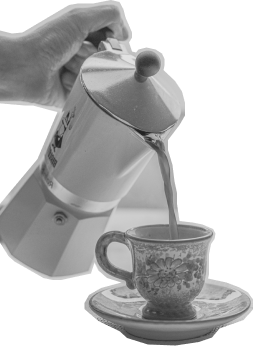
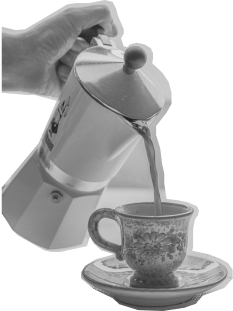
Update /preview/: color-adapt button, new moka, contact fields

diff --git a/preview/script.js b/preview/script.js
@@ -303,6 +303,21 @@
   var toTopBtn = document.querySelector('.rm-totop');
   var menuBtnShown = false, toTopShown = false, lastRevAct = -1, revMobile = false;
 
+  // Menu button adapts its colour to the section it's currently over.
+  // Each entry: {el, bg (button fill), fg (icon + border)} from the palette.
+  var navThemes = [
+    { el: document.getElementById('top'), bg: '#E5E1D6', fg: '#1C164F' },              // teal hero
+    { el: document.getElementById('about'), bg: '#DEA529', fg: '#1C164F' },            // navy/beige philo
+    { el: document.getElementById('experiences'), bg: '#DEA529', fg: '#1C164F' },      // navy cuisine
+    { el: document.querySelector('.rm-debut'), bg: '#9D2D21', fg: '#E5E1D6' },         // cream / terracotta début
+    { el: document.getElementById('experiences-cards'), bg: '#E5E1D6', fg: '#1C164F' },// teal experiences
+    { el: document.getElementById('menus'), bg: '#E5E1D6', fg: '#1E194E' },            // navy panel / cream
+    { el: document.getElementById('temoignages'), bg: '#DEA529', fg: '#66593C' },      // brown testimonials
+    { el: document.getElementById('contact'), bg: '#9D2D21', fg: '#E5E1D6' },          // cream contact
+    { el: document.querySelector('footer'), bg: '#E5E1D6', fg: '#9D2D21' }             // terracotta footer
+  ].filter(function (t) { return t.el; });
+  var currentNavTheme = -1;
+
   // Crossfade to a specific review (used by the mobile dot carousel)
   function setReview(i) {
     revCards.forEach(function (c, k) {
@@ -445,6 +460,23 @@
         st.opacity = show ? '1' : '0';
         st.pointerEvents = show ? 'auto' : 'none';
         st.transform = show ? 'none' : 'translateY(-8px)';
+      }
+      // Recolour to the section sitting under the button (top-right).
+      // The hero is a sticky backdrop pinned at top:0, so skip it and let the
+      // content scrolling over it win; fall back to the hero only at page top.
+      if (navThemes.length) {
+        var by = 44, pick = -1, pickTop = -1e9;
+        for (var ti = 0; ti < navThemes.length; ti++) {
+          if (navThemes[ti].el.id === 'top') continue;
+          var tr = navThemes[ti].el.getBoundingClientRect();
+          if (tr.top <= by && tr.bottom > by && tr.top > pickTop) { pickTop = tr.top; pick = ti; }
+        }
+        if (pick < 0) pick = 0; // still on the hero
+        if (pick !== currentNavTheme) {
+          currentNavTheme = pick;
+          els.menuBtn.style.setProperty('--mb-bg', navThemes[pick].bg);
+          els.menuBtn.style.setProperty('--mb-fg', navThemes[pick].fg);
+        }
       }
     }
 

diff --git a/preview/styles.css b/preview/styles.css
@@ -210,6 +210,14 @@ html{scroll-behavior:smooth;}
 .rm-h0{font-weight:500!important;font-size:clamp(32px,3.4vw,50px)!important;line-height:0.99!important;letter-spacing:0.07em!important;transform:none!important;}
 .rm-heroh1{transform:none!important;}
 .rm-h1{font-weight:500!important;}
+/* Menu button: clean circle+hamburger on all viewports, recolours per section */
+.rm-menubtn{top:20px!important;right:18px!important;width:48px!important;height:48px!important;border-radius:50%!important;border:1.5px solid var(--mb-fg,#E5E1D6)!important;background:var(--mb-bg,#1C164F)!important;display:flex!important;align-items:center;justify-content:center;padding:0!important;box-shadow:0 6px 18px rgba(28,22,79,0.20)!important;transition:opacity .4s ease,transform .4s ease,background-color .6s ease,border-color .6s ease!important;}
+.rm-menubtn img{display:none!important;}
+.rm-menubtn .rm-bars{display:flex!important;flex-direction:column;align-items:center;justify-content:center;gap:5px;}
+.rm-menubtn .rm-bars span{display:block;width:20px;height:2px;border-radius:2px;background:var(--mb-fg,#E5E1D6);transition:transform .35s cubic-bezier(.16,1,.3,1),opacity .2s ease,background-color .6s ease;}
+.rm-menubtn.open .rm-bars span:nth-child(1){transform:translateY(7px) rotate(45deg);}
+.rm-menubtn.open .rm-bars span:nth-child(2){opacity:0;}
+.rm-menubtn.open .rm-bars span:nth-child(3){transform:translateY(-7px) rotate(-45deg);}
 /* Roomier rhythm — more air around the editorial sections */
 #experiences-cards{padding-top:clamp(100px,15vh,200px)!important;padding-bottom:clamp(100px,15vh,200px)!important;}
 #contact{padding:clamp(90px,13vh,170px) clamp(24px,5vw,68px)!important;}
@@ -222,11 +230,12 @@ footer{padding-top:clamp(64px,9vh,110px)!important;}
 @media (min-width:821px){
   #experiences-cards>div>h2,#experiences-cards>div>p{display:none!important;}
 }
-/* Contact: single editorial column, left-aligned (title, intro, form) */
-#contact>div>div{flex-direction:column!important;align-items:flex-start!important;text-align:left!important;gap:0!important;}
-#contact .rm-h0{text-align:left!important;}
-.rm-cintro{flex:none!important;max-width:560px!important;text-align:left!important;margin:0 0 clamp(34px,5vh,60px)!important;}
-.rm-cform{flex:none!important;width:100%!important;max-width:640px!important;margin:0!important;}
+/* Contact: centred title + intro + form block, but fields read left-aligned */
+#contact>div>div{flex-direction:column!important;align-items:center!important;text-align:center!important;gap:0!important;}
+#contact .rm-h0{text-align:center!important;}
+.rm-cintro{flex:none!important;max-width:600px!important;text-align:center!important;margin:0 auto clamp(34px,5vh,60px)!important;}
+.rm-cform{flex:none!important;width:100%!important;max-width:640px!important;margin:0 auto!important;text-align:left!important;}
+.rm-cform label,.rm-cform label span{text-align:left!important;}
 @media (max-width:820px){
   .rm-h0{font-size:clamp(26px,6.8vw,42px)!important;}
   .rm-herodecor{display:none!important;}